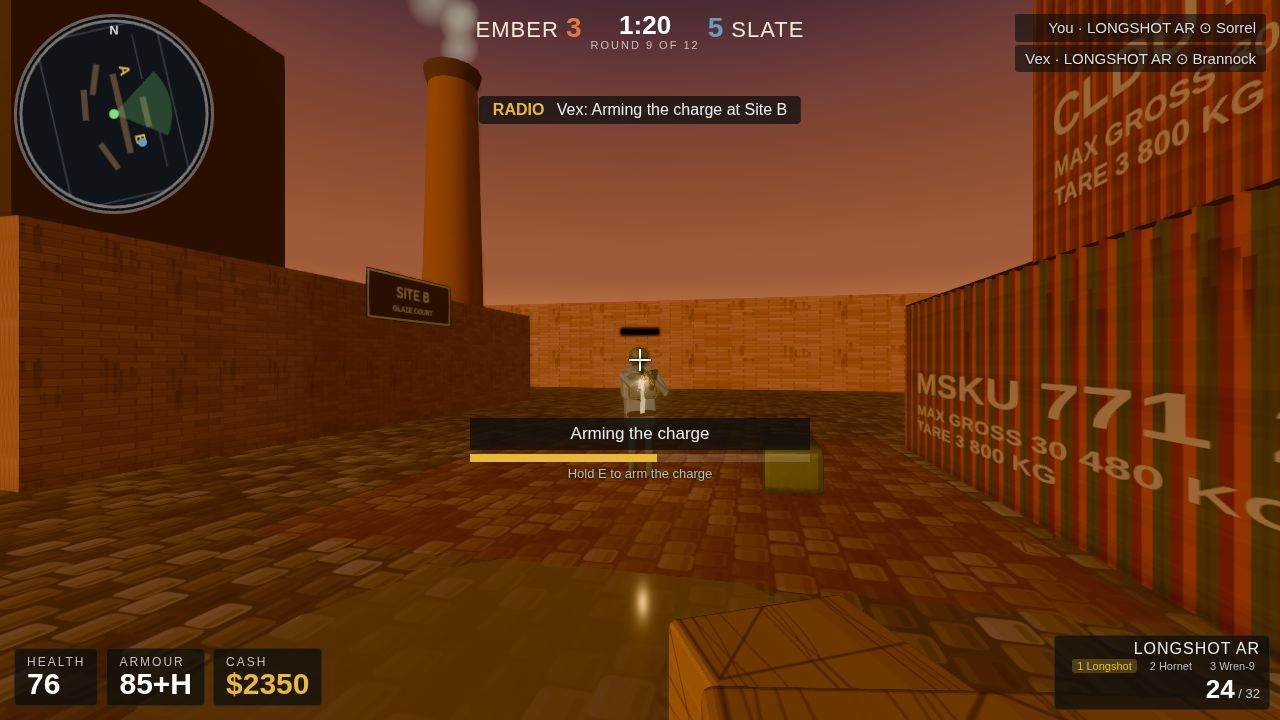
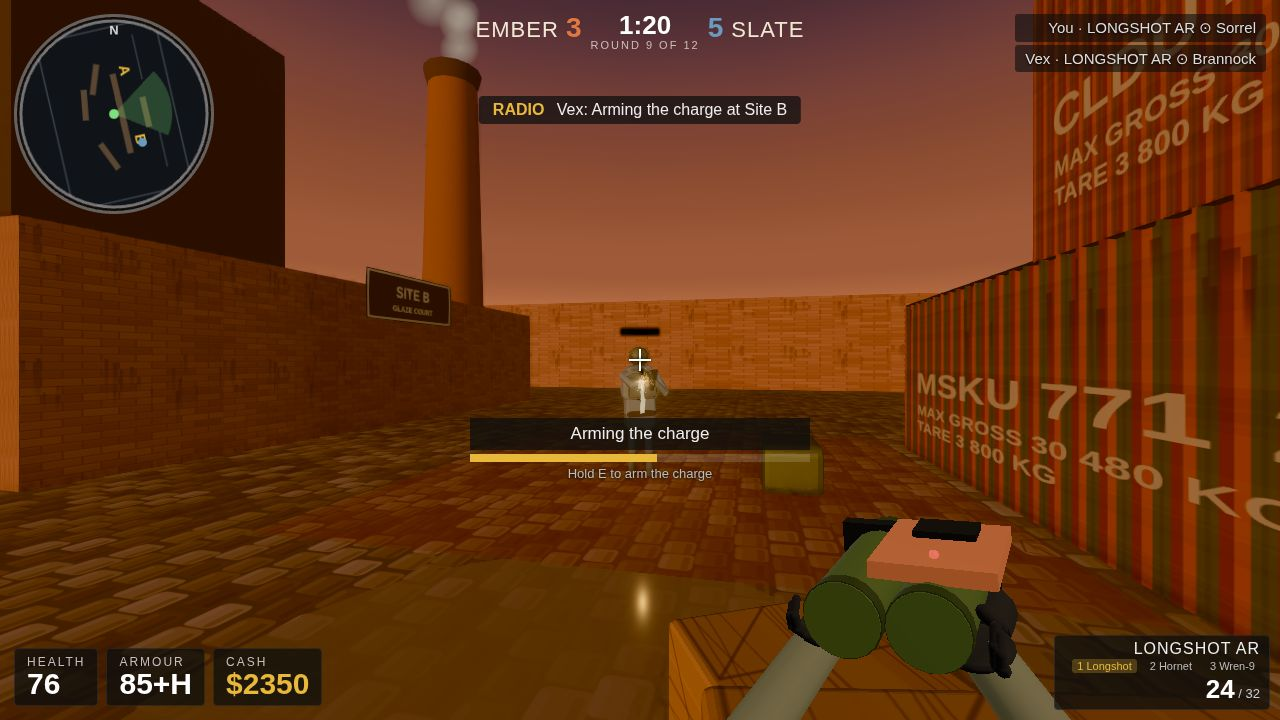
DUEL-BOM: tangan megang charge di shot duel/arming (koreksi Kilnyard-2)
Celah 3 kemarin SALAH ARTIIN Kilnyard-2: bukan 'shot bersih tanpa
VM' — pemainnya megang BOM (silinder hijau + panel oranye) sambil
arming. vmScene.visible=false kemarin bikin frame kosong tanpa
tangan. Sekarang: buildBomb() baru (prosedural, 2 silinder hijau
zaitun + panel oranye + layar gelap + LED merah + tali pengikat) +
dua tangan hitam + lengan, tampil di duel; senapan disembunyikan
di duel saja (stage() menukar visible rifle<->bom; combat/buy/
score tidak berubah). spawnVmFlash dicabut di duel (bintangnya
bakal melayang di posisi moncong senapan yang disembunyikan,
tepat di atas bom).

3 putaran QC: R1 bom dua drum raksasa + tangan ketutup silinder
(keluar frame bawah); R2 bom dikecilkan/dijauhkan (0.36,-0.30,
-0.95, scale 0.85) + tangan pindah ke sisi luar silinder + panel
dioranyekan/ditipiskan + LED diredupkan — tangan + bom kebaca
jelas di close-up; R3 verifikasi tanpa perubahan (duel 106110->
106092 B, combat 117626->117631 B, grip 0/0 semua). Determinisme:
out/ 2x IDENTIK (5dede697...). Bar arming 0.55 + 'Hold E to arm
the charge' tetap jalan.

Changed region(s): [[0.5625, 0.7028, 0.8438, 1.0]]

diff --git a/game/src/weapon.js b/game/src/weapon.js
@@ -373,6 +373,64 @@ export function buildArm(handGroup, dirVM, opts = {}) {
 // petals washed into a ball in every round (R4-R6). Quads keep full opacity
 // and hard points, so they read at distance.
 let _flashTex = null;
+// DUEL-BOM (16 Nov): charge yang dipegang dua tangan di shot duel/arming
+// (Kilnyard-2 — pemain megang bom, bukan senapan). Prosedural penuh:
+// dua silinder hijau zaitun berdampingan (kayak charge ganda Kilnyard)
+// + panel oranye di atas silinder kanan + layar kecil + LED merah.
+// Sumbu panjang = Z (seperti senapan), tangan menempel di bawah tiap
+// silinder lewat anchor gripL/gripR. Tidak ada rng — deterministik.
+export function buildBomb() {
+  const g = new THREE.Group();
+  const greenMat = new THREE.MeshStandardMaterial({ color: 0x4a5d23, metalness: 0.15, roughness: 0.55 });
+  const greenDarkMat = new THREE.MeshStandardMaterial({ color: 0x2e3a16, metalness: 0.15, roughness: 0.6 });
+  const orangeMat = new THREE.MeshStandardMaterial({ color: 0xe06a1a, metalness: 0.1, roughness: 0.45 });
+  const darkMat = new THREE.MeshStandardMaterial({ color: 0x1a1a1a, metalness: 0.2, roughness: 0.6 });
+  const ledMat = new THREE.MeshStandardMaterial({ color: 0x330000, emissive: 0xff2a1a, emissiveIntensity: 1.2, roughness: 0.4 });
+  // dua silinder berdampingan, sumbu Z
+  for (const sx of [-0.058, 0.058]) {
+    const body = new THREE.Mesh(new THREE.CylinderGeometry(0.055, 0.055, 0.34, 20), greenMat);
+    body.rotation.x = Math.PI / 2;
+    body.position.set(sx, 0, 0);
+    g.add(body);
+    // ring ujung lebih gelap (tutup + sambungan)
+    for (const ez of [-0.155, 0.155]) {
+      const rim = new THREE.Mesh(new THREE.CylinderGeometry(0.057, 0.057, 0.025, 20), greenDarkMat);
+      rim.rotation.x = Math.PI / 2;
+      rim.position.set(sx, 0, ez);
+      g.add(rim);
+    }
+  }
+  // panel oranye di atas silinder kanan — tipis (R2: 0.035 terlalu tebal,
+  // kebaca kotak peach; 0.025 + oranye lebih jenuh = lempeng panel)
+  const panel = new THREE.Mesh(new THREE.BoxGeometry(0.17, 0.025, 0.22), orangeMat);
+  panel.position.set(0.058, 0.064, 0.02);
+  g.add(panel);
+  // layar kecil gelap di atas panel
+  const screen = new THREE.Mesh(new THREE.BoxGeometry(0.09, 0.012, 0.07), darkMat);
+  screen.position.set(0.058, 0.081, -0.03);
+  g.add(screen);
+  // LED merah (charge aktif) di ujung depan panel — kecil + redup (R2:
+  // 0.009/2.0 kebaca pink karena bloom; 0.007/1.2 = titik merah)
+  const led = new THREE.Mesh(new THREE.SphereGeometry(0.007, 12, 8), ledMat);
+  led.position.set(0.058, 0.081, 0.09);
+  g.add(led);
+  // tali pengikat gelap di belakang panel — mengikat dua silinder jadi
+  // SATU charge (R1 kebaca dua drum lepas)
+  const strap = new THREE.Mesh(new THREE.BoxGeometry(0.245, 0.13, 0.03), darkMat);
+  strap.position.set(0, 0, -0.10);
+  g.add(strap);
+  // anchor tangan: di SISI LUAR tiap silinder (R2: di bawah silinder
+  // tangan ketutup silinder + keluar frame bawah; di sisi luar, jari
+  // melingkar di dinding luar silinder dan kebaca kamera), sedikit maju
+  const gripL = new THREE.Object3D();
+  gripL.position.set(-0.105, -0.055, 0.06);
+  g.add(gripL);
+  const gripR = new THREE.Object3D();
+  gripR.position.set(0.105, -0.055, 0.06);
+  g.add(gripR);
+  return { group: g, gripL, gripR };
+}
+
 export function makeFlash(scale = 0.15, lightIntensity = 10) {
   if (!_flashTex) _flashTex = flashTex();
   const group = new THREE.Group();

diff --git a/game/src/main.js b/game/src/main.js
@@ -11,7 +11,7 @@ import { SMAAPass } from 'three/addons/postprocessing/SMAAPass.js';
 import { Game } from './game.js';
 import { HUD } from './hud.js';
 import { AudioSys } from './audio.js';
-import { buildRifle, buildHand, buildArm } from './weapon.js';
+import { buildRifle, buildHand, buildArm, buildBomb } from './weapon.js';
 
 // ---- grade pass: saturation + warm shadow lift (my own shader) ----
 const GradeShader = {
@@ -214,6 +214,35 @@ const vmMuzzle = new THREE.Object3D();
 vmMuzzle.position.copy(vmRifle.muzzle.position);
 vmRifle.group.add(vmMuzzle);
 
+// DUEL-BOM (16 Nov): tangan megang BOM di shot duel/arming — Kilnyard-2
+// salah arti kemarin: bukan "shot bersih tanpa VM", pemainnya megang
+// charge (silinder hijau + panel oranye) sambil arming. Bom ini yang
+// tampil di duel; senapan disembunyikan di sana (Game.stage yang
+// menukar visible keduanya). Posisi R2: pojok kanan bawah, tengah
+// bom ~(0.36,-0.30,-0.95) = layar ~(908,583) di 1280x720 (hitung dari
+// FOV 54: setengah tinggi tampak di z -0.95 = 0.484 m, setengah lebar
+// 0.86 m) — kiri panel ammo DOM, seperti Kilnyard-2. Rotasi y -0.55
+// bikin sumbu bom diagonal di frame; tangan di bawah tiap silinder,
+// telapak ke atas (rotasi sama kayak support hand di handguard),
+// lengan ke bawah-luar sampai keluar frame.
+const vmBomb = buildBomb();
+vmBomb.group.position.set(0.36, -0.30, -0.95); // R2: lebih jauh + kecil (scale 0.85) — R1 dua drum raksasa menuhin pojok; kini seukuran bom Kilnyard-2
+vmBomb.group.scale.setScalar(0.85);
+vmBomb.group.rotation.set(0.10, -0.55, 0.10);
+vmBomb.group.visible = false; // hanya tampil di duel
+vmScene.add(vmBomb.group);
+const bombHandL = buildHand(0x17171a);
+bombHandL.group.position.copy(vmBomb.gripL.position);
+bombHandL.group.rotation.set(0, 0, Math.PI);
+vmBomb.group.add(bombHandL.group);
+const bombHandR = buildHand(0x17171a);
+bombHandR.group.position.copy(vmBomb.gripR.position);
+bombHandR.group.rotation.set(0, 0, Math.PI);
+vmBomb.group.add(bombHandR.group);
+vmScene.updateMatrixWorld(true);
+const bombArmL = buildArm(bombHandL.group, new THREE.Vector3(-0.55, -0.55, 0.30));
+const bombArmR = buildArm(bombHandR.group, new THREE.Vector3(0.35, -0.55, 0.30));
+
 // ---- post chain (proven order): Render -> GTAO -> Bloom -> Grade -> Output -> SMAA ----
 // FIX 9 POIN P8: GTAOPass di-wire (was vendored tapi tidak dipakai —
 // contact shadow tidak ada sama sekali; shadowMap juga tidak aktif, jadi
@@ -241,10 +270,12 @@ const hud = new HUD();
 const audio = new AudioSys();
 const game = new Game(scene, camera, vmScene, vmCamera, hud, audio);
 game._vmMuzzle = vmMuzzle;
+game._vmRifle = vmRifle; // DUEL-BOM: stage() menukar rifle <-> bom
+game._vmBomb = vmBomb;
 
 // QC debug handle (9-point fix): exposes the viewmodel + THREE for close-up
 // probes and numeric socket tests. Gameplay-neutral (read-only handle).
-window.__vm = { rifle: vmRifle, handR: vmHandR, handL: vmHandL, armR: vmArmR, armL: vmArmL, camera: vmCamera, scene: vmScene, muzzle: vmMuzzle };
+window.__vm = { rifle: vmRifle, handR: vmHandR, handL: vmHandL, armR: vmArmR, armL: vmArmL, camera: vmCamera, scene: vmScene, muzzle: vmMuzzle, bomb: vmBomb, bombHandL, bombHandR, bombArmL, bombArmR };
 window.__THREE = THREE;
 
 // ---- input ----

diff --git a/game/src/game.js b/game/src/game.js
@@ -341,9 +341,12 @@ export class Game {
     this.reseed(20261116);
     this.frozen = true;
     this.effects.clear();
-    // CELAH 3: VM tampil di semua stage KECUALI duel (disembunyikan di
-    // cabang duel di bawah, seperti Kilnyard-2 yang bersih tanpa VM).
+    // DUEL-BOM: senapan tampil di semua stage KECUALI duel (di duel
+    // tangan megang bom, bukan senapan — Kilnyard-2). Bom disembunyikan
+    // di stage lain; cabang duel di bawah menukar keduanya.
     this.vmScene.visible = true;
+    if (this._vmRifle) this._vmRifle.group.visible = true;
+    if (this._vmBomb) this._vmBomb.group.visible = false;
     if (this._vmFlash) { this.vmScene.remove(this._vmFlash); this._vmFlash = null; }
     this.state = 'live';
     this.round = 9;
@@ -453,11 +456,12 @@ export class Game {
       for (const b of this.bots) if (b !== t1) b.soldier.group.position.set(30, 0, 30);
       this.hud.hint('Buy time: B opens the requisition menu');
     } else if (name === 'duel') {
-      // CELAH 3: sembunyikan viewmodel di shot duel/arming (Kilnyard-2
-      // bersih tanpa VM — scene + bar arming yang jadi fokus). spawnVmFlash
-      // di bawah tetap jalan tapi tidak kelihatan (flash hidup di vmScene,
-      // dibersihkan pas stage berikutnya masuk).
-      this.vmScene.visible = false;
+      // DUEL-BOM: senapan DISEMBUNYIKAN, tangan MEGANG BOM (Kilnyard-2:
+      // pemain megang charge hijau + panel oranye sambil arming, bukan
+      // senapan). Koreksi atas Celah 3 yang kemarin bikin frame kosong
+      // tanpa tangan (vmScene.visible=false). vmScene tetap tampil.
+      if (this._vmRifle) this._vmRifle.group.visible = false;
+      if (this._vmBomb) this._vmBomb.group.visible = true;
       // site B: player comes down the EAST lane (x>17, clear of the z=-3
       // container row), enemy guarding the charge, SITE B sign behind-right.
       // R2 put the player at (11,-1.5) — 0.3 m from the stacked container's
@@ -489,7 +493,11 @@ export class Game {
       // FIX ROUND: duel smoke REMOVED — its 5 puffs drifted west (toward the
       // camera) and covered the enemy's torso/head as a white stain. Kilnyard-2
       // has no smoke in the plant shot either; enemy + charge carry the duel.
-      this.spawnVmFlash();
+      // DUEL-BOM: spawnVmFlash DICABUT di duel — bintang flash VM hidup di
+      // posisi moncong senapan yang kini disembunyikan; kalau tetap jalan,
+      // bintangnya melayang di udara tepat di atas bom (pemain lagi arming,
+      // bukan nembak). Tracer pemain di bawah tetap jalan (world-space,
+      // tidak terikat VM).
       const dfrom = new THREE.Vector3(7, 1.55, -7);
       const ddir = new THREE.Vector3(13.5, 1.35, -8.5).sub(dfrom).normalize();
       this.spawnTracer(dfrom.clone().addScaledVector(ddir, 2), new THREE.Vector3(13.5, 1.35, -8.5));
